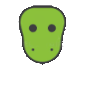
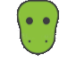
Basic input movement

diff --git a/game/game.go b/game/game.go
@@ -33,19 +33,31 @@ const (
 	rhImageSrc        = "images/red-hat.png"
 	ebImageSrc        = "images/ebitengine.png"
 	goImageSrc        = "images/golang.png"
+	baseSpeed		  = 1
+	cellSizeWidth	  = 76
+	cellSizeHeight	  = 76
+	gridLineSize	  = 3.75
 )
 
+type snake struct {
+	snakeHead 	*ebiten.Image
+	xPos		float64
+	yPos		float64
+	speed		float64
+}
+
 var (
-	tilesImage *ebiten.Image
-	snakeHead  *ebiten.Image
-	drNick     *ebiten.Image
-	schImage   *ebiten.Image
-	rhImage    *ebiten.Image
-	ebImage    *ebiten.Image
-	goImage    *ebiten.Image
-	baseFont   font.Face
-	gameActive bool
-	GameState  string // intro, title, game, exit
+	tilesImage 		*ebiten.Image
+	snakeHead  		*ebiten.Image
+	snakePlayer		snake
+	drNick     		*ebiten.Image
+	schImage   		*ebiten.Image
+	rhImage    		*ebiten.Image
+	ebImage    		*ebiten.Image
+	goImage    		*ebiten.Image
+	baseFont   		font.Face
+	gameActive 		bool
+	GameState  		string // intro, title, game, exit
 )
 
 func init() {
@@ -81,6 +93,10 @@ func init() {
 	if err != nil {
 		log.Fatal(err)
 	}
+
+	// Make snake
+	snakePlayer = snake{snakeHead, gridLineSize, gridLineSize, baseSpeed}
+
 	//TODO: Add "snake body" that can be extended
 	//TODO: Add "snake tail" that will be the end
 
@@ -113,6 +129,33 @@ func (g *Game) Update() error {
 		} else if GameState == "title" {
 			log.Println("Enter key pressed in title")
 			GameState = "game"
+		}
+	}
+
+	if GameState == "game" {
+		if inpututil.IsKeyJustPressed(ebiten.KeyUp) {
+			newYpos := float64(cellSizeHeight) + float64(gridLineSize)
+			if (snakePlayer.yPos - newYpos) > 0 {
+				snakePlayer.yPos -= newYpos
+			}
+		}
+		if inpututil.IsKeyJustPressed(ebiten.KeyDown) {
+			newYpos := float64(cellSizeHeight) + float64(gridLineSize)
+			if (snakePlayer.yPos + newYpos) < ScreenHeight {
+				snakePlayer.yPos += newYpos
+			}
+		}
+		if inpututil.IsKeyJustPressed(ebiten.KeyLeft) {
+			newXpos := float64(cellSizeWidth) + float64(gridLineSize)
+			if (snakePlayer.xPos - newXpos) > 0 {
+				snakePlayer.xPos -= newXpos
+			}
+		}
+		if inpututil.IsKeyJustPressed(ebiten.KeyRight) {
+			newXpos := float64(cellSizeWidth) + float64(gridLineSize)
+			if (snakePlayer.xPos + newXpos) < ScreenHeight {
+				snakePlayer.xPos += newXpos
+			}
 		}
 	}
 
@@ -180,7 +223,13 @@ func doGame(g *Game, screen *ebiten.Image) {
 	screen.DrawImage(tilesImage, nil)
 
 	// Draw snake head
-	screen.DrawImage(snakeHead, nil)
+	hOp := &ebiten.DrawImageOptions{}
+	hOp.GeoM.Translate(snakePlayer.xPos, snakePlayer.yPos)
+	screen.DrawImage(snakeHead, hOp)
+
+	// Draw middle parts
+
+	// Draw tail
 
 }
 
